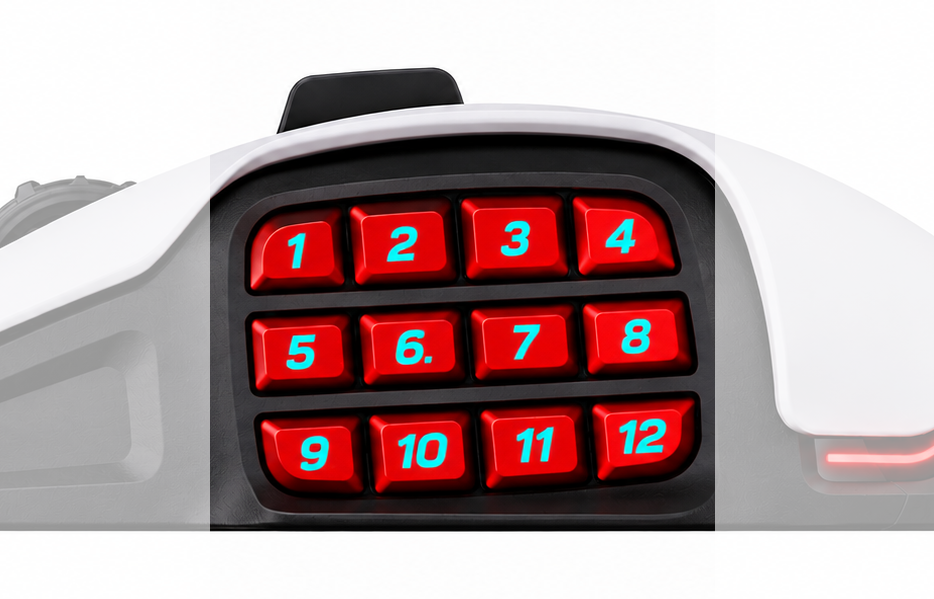
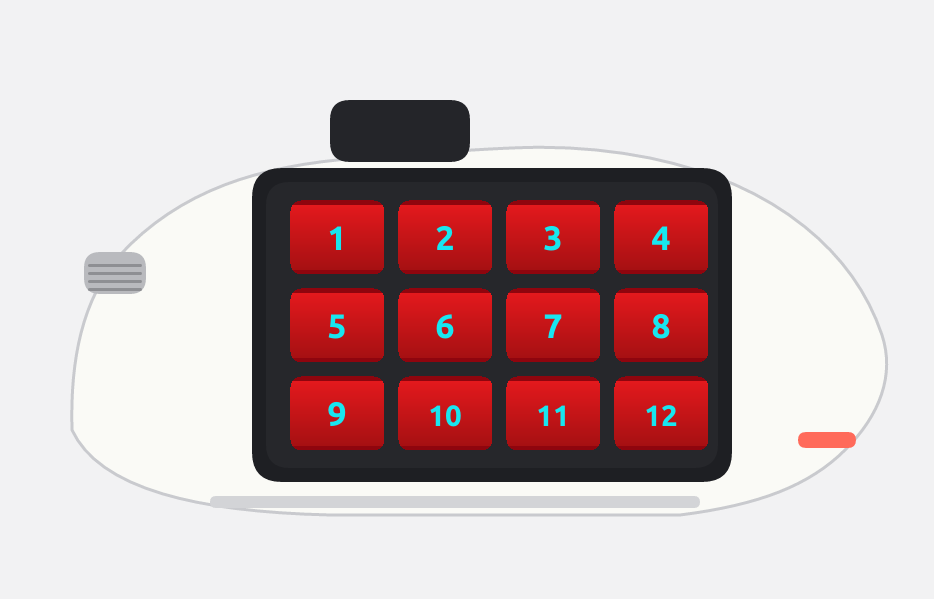
feat(gui): replace Roccat store photos with self-rendered vector art
The Buttons-tab images were derived from Roccat's (defunct) store
photography. Replace them with flat-vector illustrations rendered
from scratch (tiny-skia + the bundled Ubuntu Bold font, via a scratch
tool): same mouse shape and colour language - white body, dark wheel
module and grip, red/cyan button numbering 1-8 on top, red keycaps
with cyan numbering 1-12 on the side view - but no borrowed pixels.

Assets keep their 816x736 / 934x599 sizes so no layout changes are
needed; the paint helper is renamed accordingly.

diff --git a/crates/nyth-config/src/app.rs b/crates/nyth-config/src/app.rs
@@ -7,8 +7,8 @@ use roccat_nyth_hid::protocol::*;
 
 use crate::state::{hid_key_name, DeviceState, ASSIGNABLE_BUTTON_TYPES, HID_KEYS};
 
-/// Roccat's product photos with the button numbering baked in, used on the
-/// Buttons tab. Cropped from the store imagery (see ROADMAP for the source).
+/// Flat-vector Nyth illustrations with the button numbering baked in, used
+/// on the Buttons tab. Rendered in-repo (not Roccat artwork; see ROADMAP).
 const NYTH_TOP_PNG: &[u8] = include_bytes!("../../../assets/images/nyth_top.png");
 const NYTH_SIDE_PNG: &[u8] = include_bytes!("../../../assets/images/nyth_side.png");
 
@@ -39,7 +39,7 @@ pub struct NythConfigApp {
     capturing_for: Option<(u8, usize)>,
     /// Last time the active-profile byte was re-read (indicator refresh poll).
     last_profile_poll: std::time::Instant,
-    /// Mouse photos for the Buttons tab, decoded lazily on first visit.
+    /// Mouse illustrations for the Buttons tab, decoded lazily on first visit.
     tex_nyth_top: Option<egui::TextureHandle>,
     tex_nyth_side: Option<egui::TextureHandle>,
 }
@@ -75,7 +75,7 @@ impl NythConfigApp {
         }
     }
 
-    /// Decode one of the embedded mouse photos into a texture (once).
+    /// Decode one of the embedded mouse illustrations into a texture (once).
     fn mouse_texture(
         cache: &mut Option<egui::TextureHandle>,
         ctx: &egui::Context,
@@ -93,8 +93,8 @@ impl NythConfigApp {
         cache.clone()
     }
 
-    /// Paint a mouse photo aspect-fitted into `max_h` of the column, centred.
-    fn mouse_photo(ui: &mut egui::Ui, tex: Option<&egui::TextureHandle>, max_h: f32) {
+    /// Paint a mouse illustration aspect-fitted into `max_h` of the column, centred.
+    fn mouse_illustration(ui: &mut egui::Ui, tex: Option<&egui::TextureHandle>, max_h: f32) {
         let Some(tex) = tex else { return };
         let avail_w = ui.available_width();
         let size = tex.size_vec2();
@@ -949,7 +949,7 @@ impl NythConfigApp {
             .show(ui, |ui| {
                 // Three columns sized to their content: Standard combos,
                 // EasyShift combos (each hugging the dropdowns), and the
-                // numbered mouse photos taking the remaining width.
+                // numbered mouse illustrations taking the remaining width.
                 let avail_w = ui.available_width();
                 let gap = ui.spacing().item_spacing.x.max(10.0);
                 let combo_w = 290.0f32;
@@ -1006,13 +1006,13 @@ impl NythConfigApp {
 
                     ui.add_space(gap);
 
-                    // ── Column 3: numbered mouse photos ─────────
-                    // Each photo lines up with the cards beside it.
+                    // ── Column 3: numbered mouse illustrations ──
+                    // Each illustration lines up with the cards beside it.
                     ui.vertical(|ui| {
                         ui.set_width(img_w);
-                        Self::mouse_photo(ui, top_tex.as_ref(), main_card_h);
+                        Self::mouse_illustration(ui, top_tex.as_ref(), main_card_h);
                         ui.add_space(6.0);
-                        Self::mouse_photo(ui, side_tex.as_ref(), side_card_h);
+                        Self::mouse_illustration(ui, side_tex.as_ref(), side_card_h);
                     });
                 });
             });
